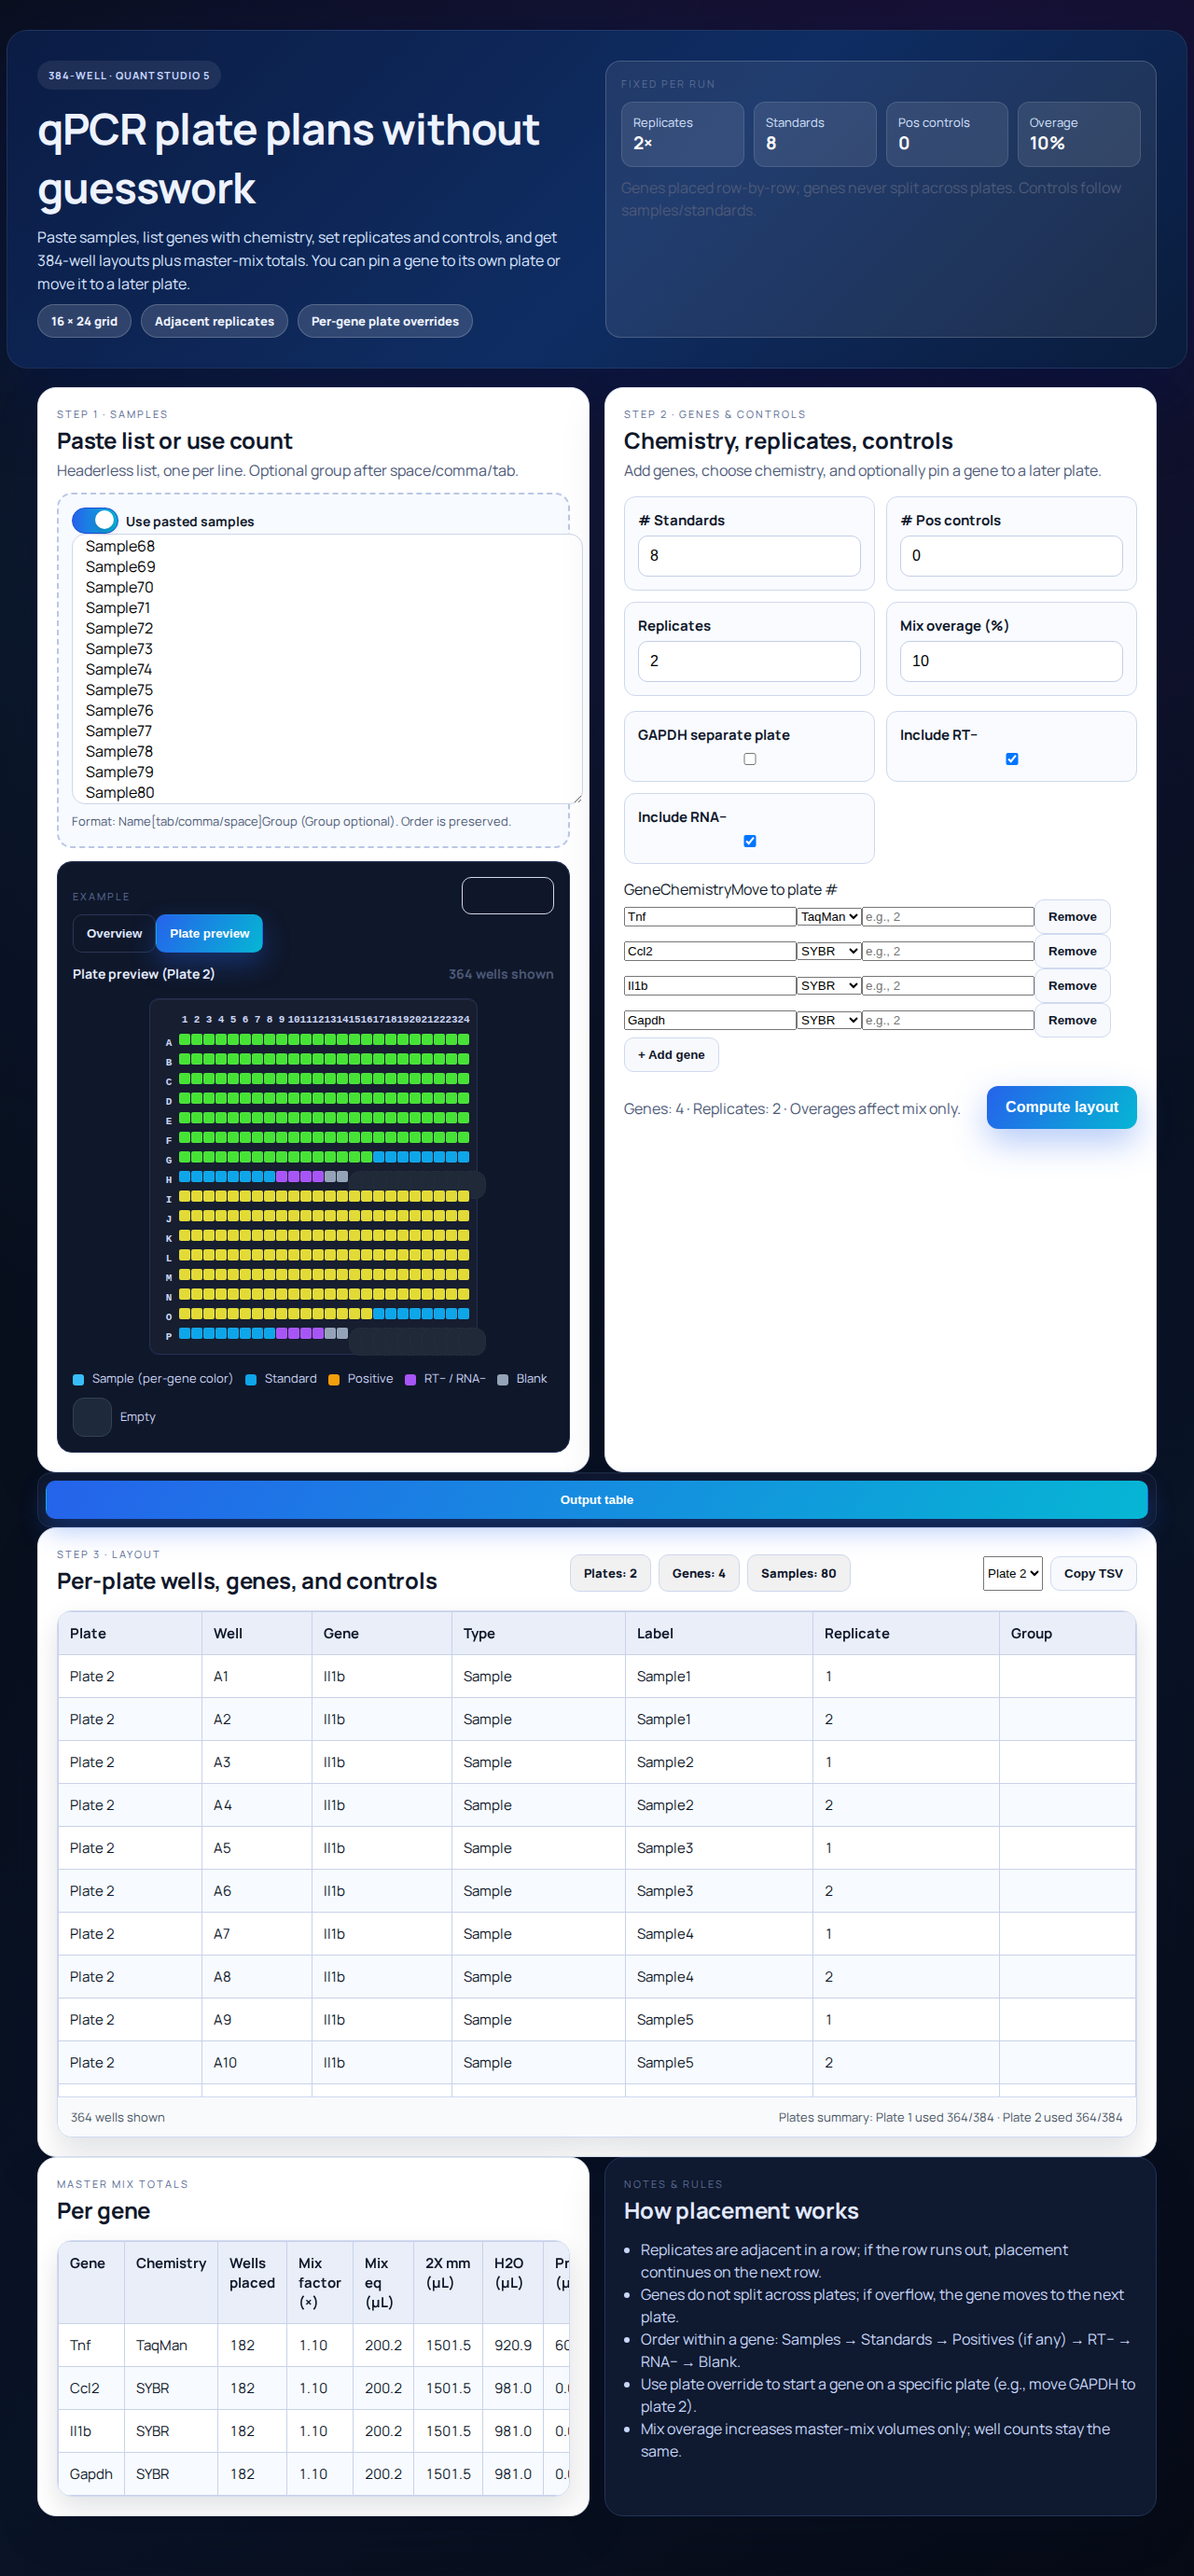
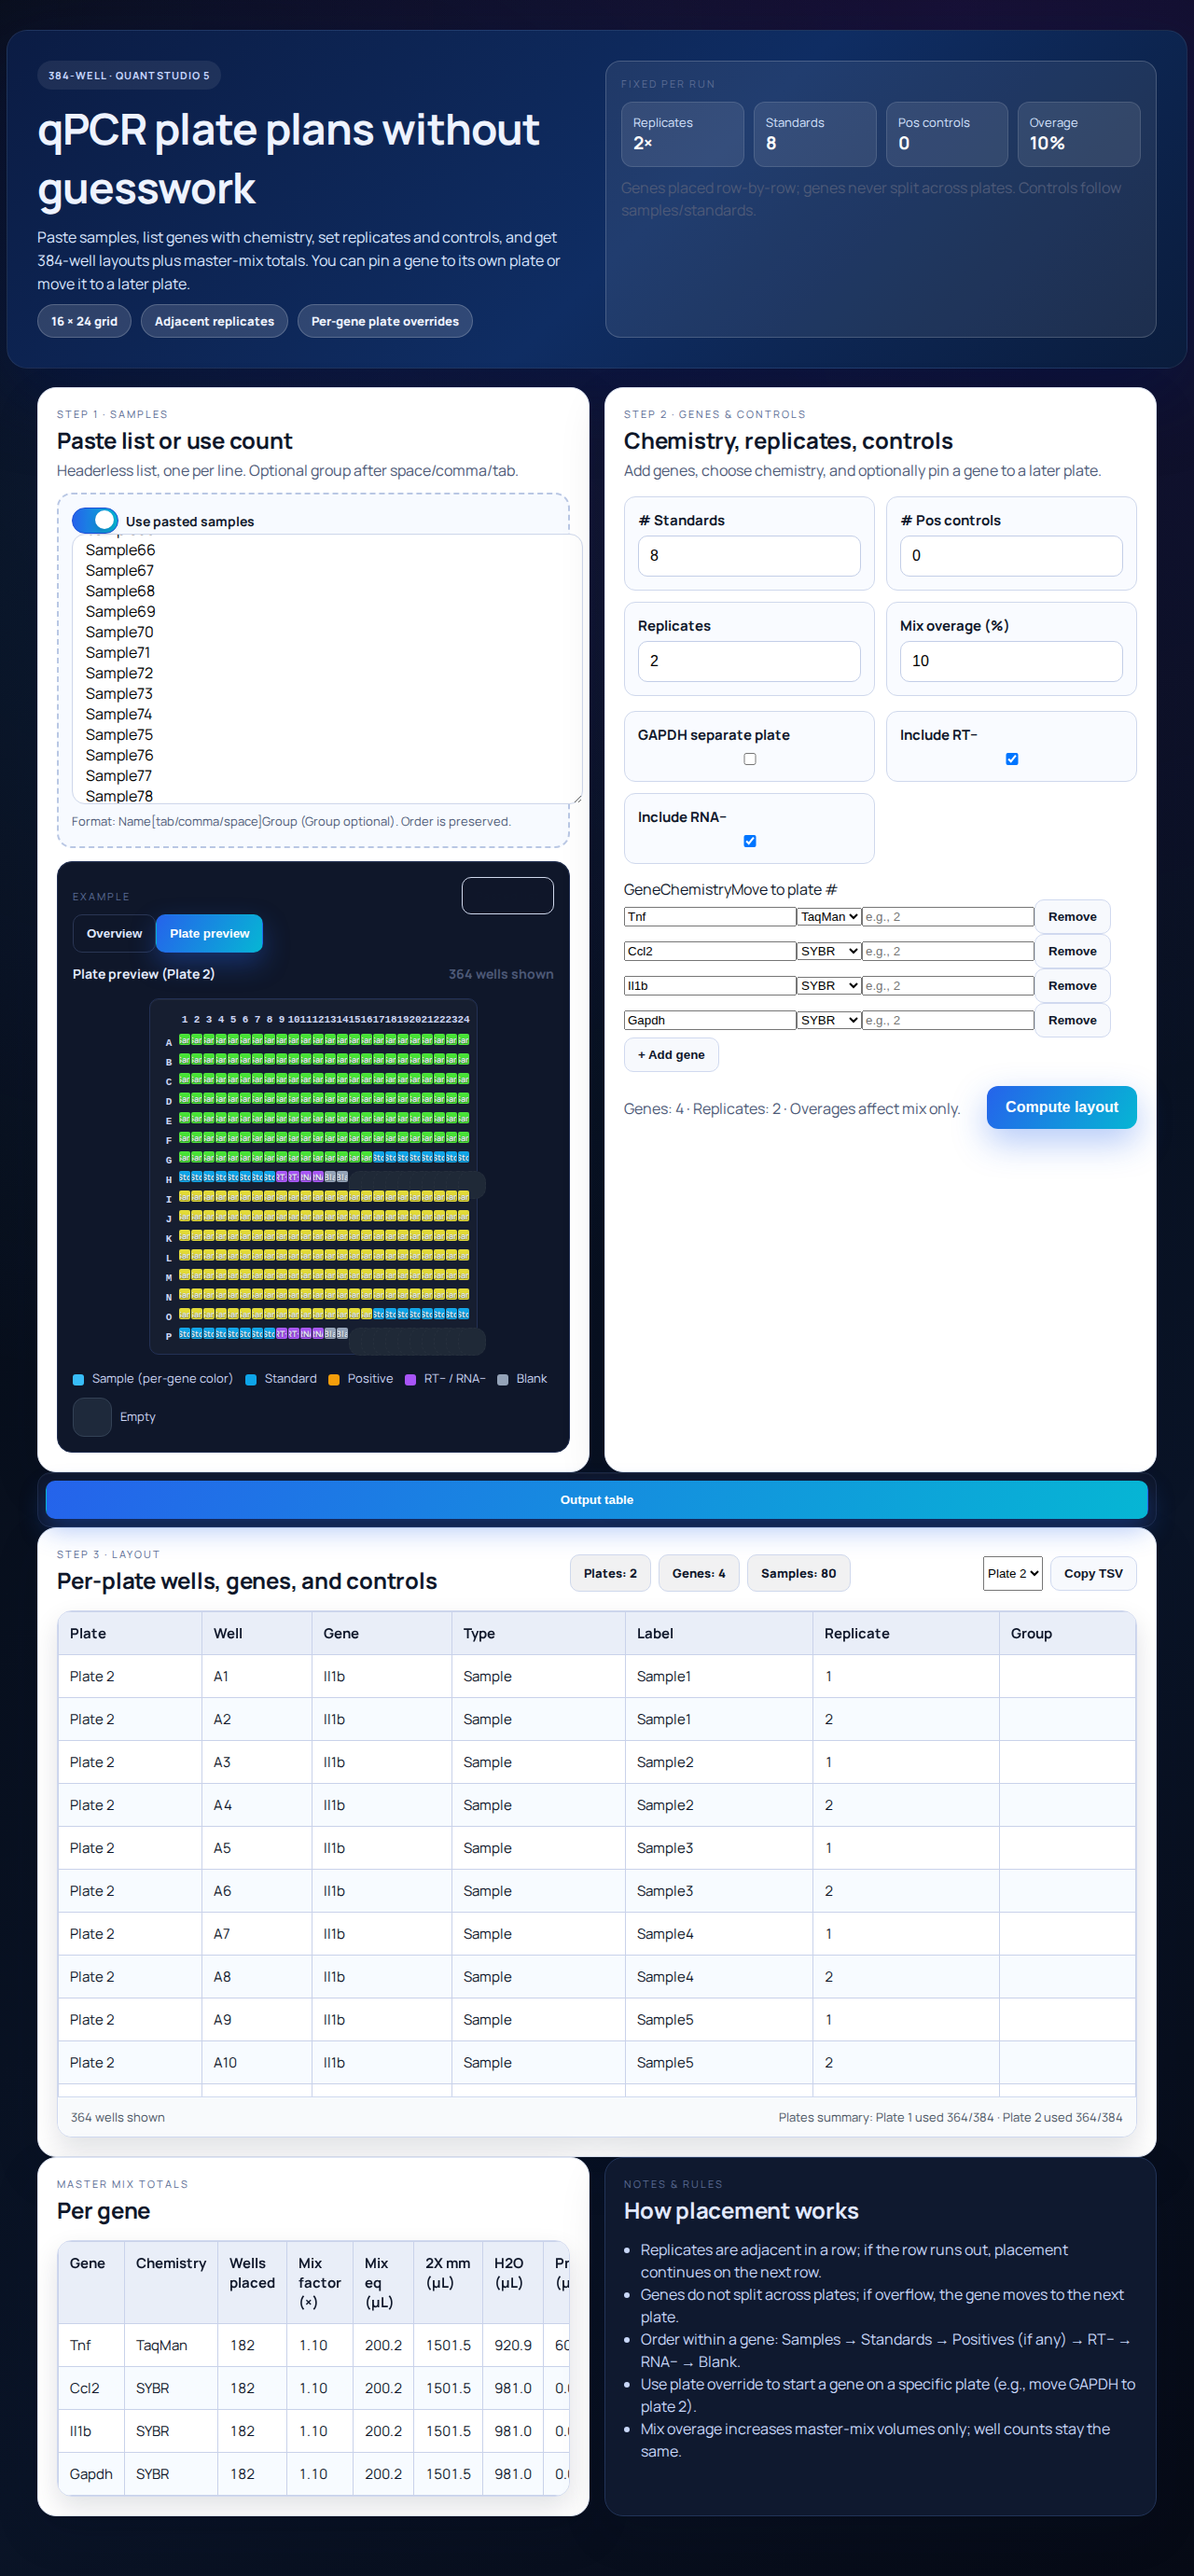
Add inline well labels and align plate preview

Changed region(s): [[0.1562, 0.4049, 0.4062, 0.5295], [0.0625, 0.1869, 0.125, 0.3115]]

diff --git a/modern-app/src/App.tsx b/modern-app/src/App.tsx
@@ -327,7 +327,13 @@ function App() {
                                   : `${well} • Empty`
                               }
                               style={{ backgroundColor: cellColor(cell) }}
-                            />
+                            >
+                              {cell && (
+                                <span className="well-label">
+                                  {cell.Label ? cell.Label.slice(0, 3) : cell.Gene.slice(0, 3)}
+                                </span>
+                              )}
+                            </div>
                           )
                         })}
                       </React.Fragment>

diff --git a/modern-app/src/App.css b/modern-app/src/App.css
@@ -381,11 +381,24 @@ body {
   background: #0b1221;
   border: 1px solid rgba(255, 255, 255, 0.06);
   box-sizing: border-box;
+  display: flex;
+  align-items: center;
+  justify-content: center;
+  overflow: hidden;
+  position: relative;
 }
 
 .well-dot:hover {
   border-color: rgba(255, 255, 255, 0.18);
   box-shadow: 0 0 0 1px rgba(255, 255, 255, 0.08);
+}
+
+.well-label {
+  font-size: 9px;
+  font-weight: 700;
+  color: #e2e8f0;
+  line-height: 1;
+  text-shadow: 0 1px 2px rgba(0, 0, 0, 0.6);
 }
 
 .data tbody tr:nth-child(even) {
